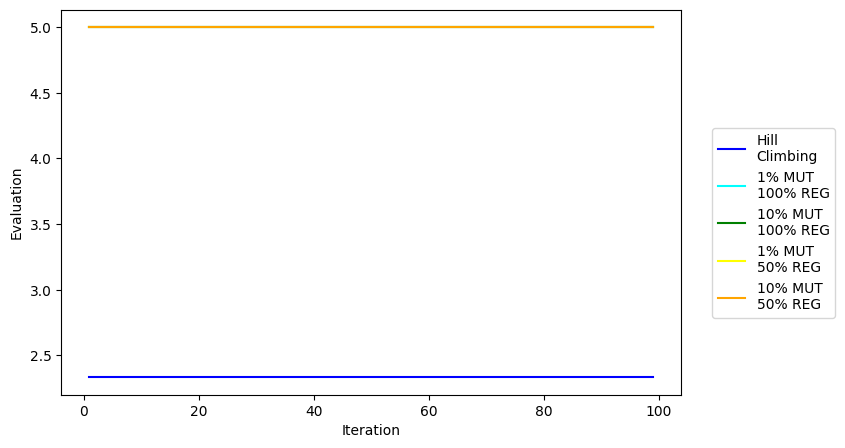
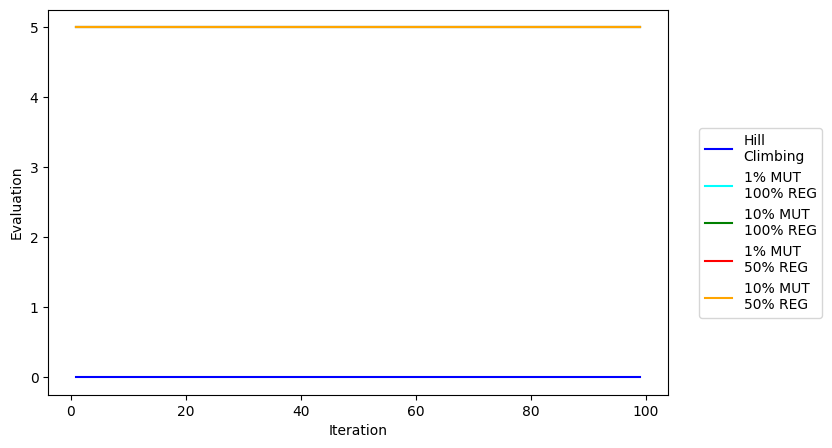
Changed gen color

diff --git a/graphs.py b/graphs.py
@@ -148,7 +148,7 @@ def plot_genetic(data_center, iterations, neighbour_modes):
     pyplot.clf()
 
     x_axis = list(range(1, iterations))
-    colors = ['blue', 'cyan', 'green', 'yellow', 'orange','red','purple']
+    colors = ['blue', 'cyan', 'green', 'red', 'orange','red','purple']
     for i, v in enumerate(ga_values):
         pyplot.plot(x_axis, v[2], color = colors[i])
     pyplot.legend(algorithms,loc=(1.05,0.2))
